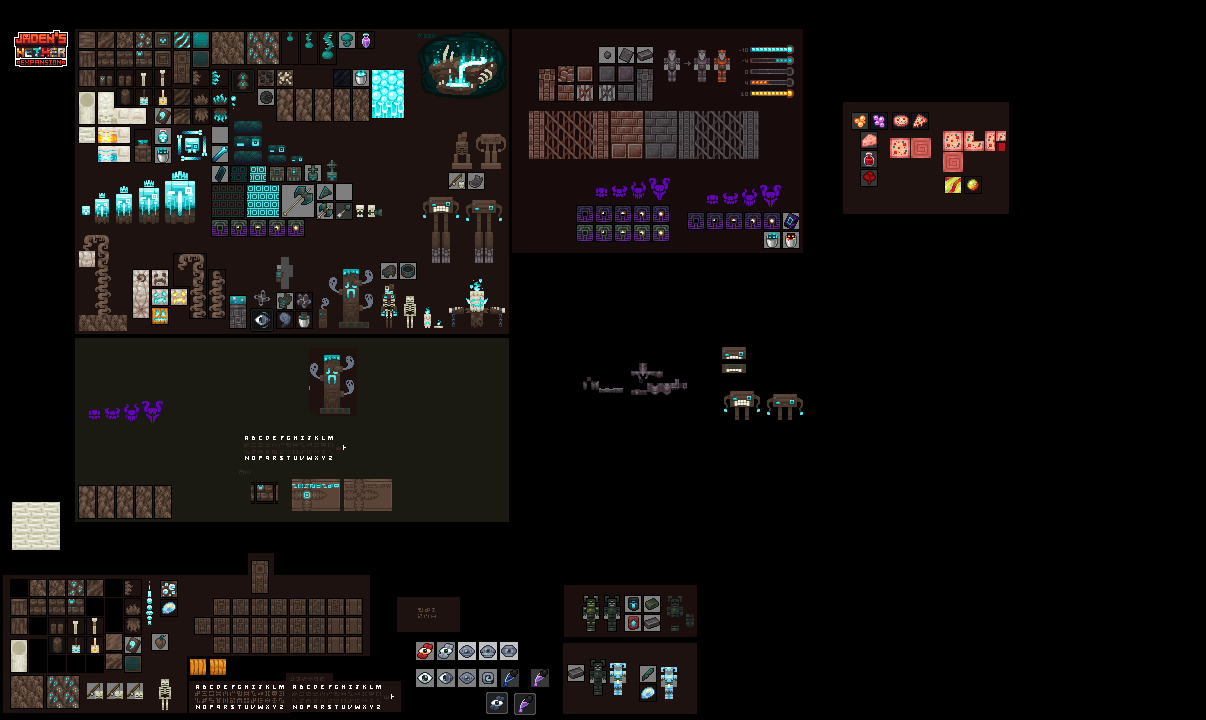
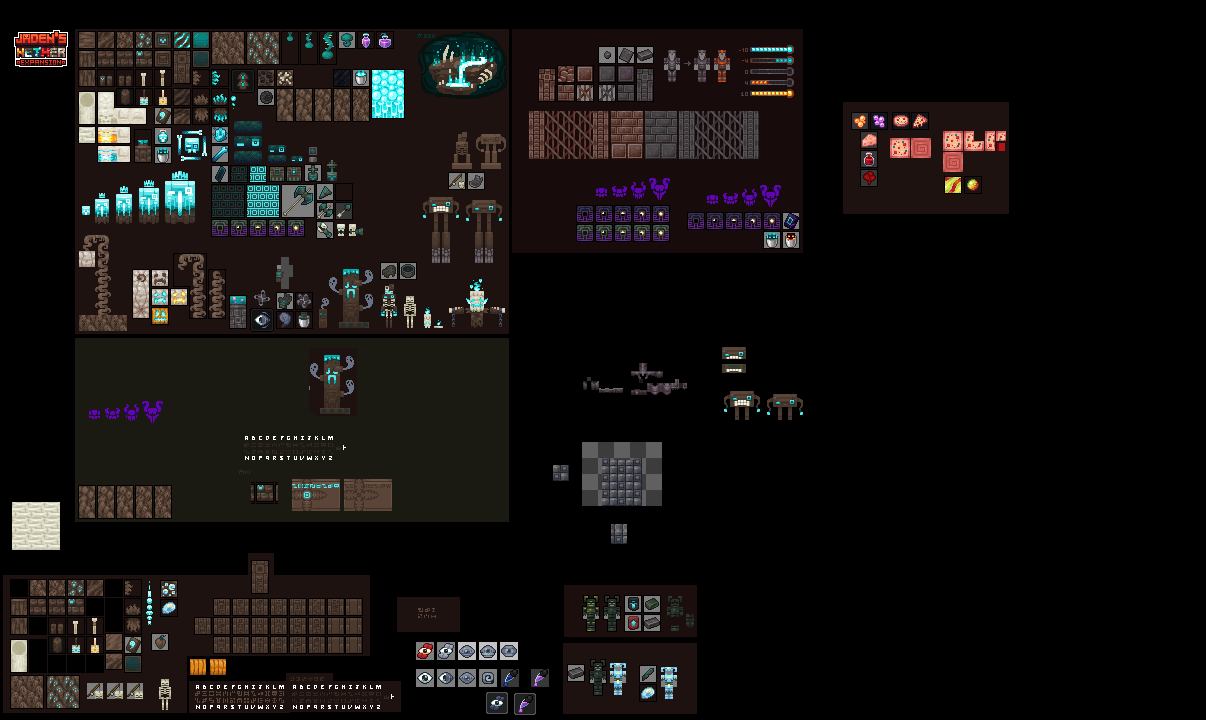
Added Antidotes & Access Wideners
Added
-Antidotes, currently only exists for Swiftness and Awkward for testing purposes
-A System to make adding Future Brewing Recipes Easier
-AccessWideners, currently unused however

Changes
-Mist Charges now stack to 64 like Fire Charges and the soon to come Wind Charges

Removed
-Chainlink Fence Assets, scrapped feature

Frontend
-Nether Expansion Sheets have been updated

diff --git a/src/main/java/net/jadenxgamer/netherexp/registry/item/brewing/ModBrewingRecipeRegistry.java b/src/main/java/net/jadenxgamer/netherexp/registry/item/brewing/ModBrewingRecipeRegistry.java
@@ -1,0 +1,48 @@
+package net.jadenxgamer.netherexp.registry.item.brewing;
+
+import net.jadenxgamer.netherexp.registry.item.ModItems;
+import net.jadenxgamer.netherexp.registry.item.custom.AntidoteItem;
+import net.minecraft.item.Item;
+import net.minecraft.item.ItemStack;
+import net.minecraft.item.Items;
+import net.minecraft.potion.Potions;
+import org.apache.commons.lang3.tuple.Triple;
+
+import java.util.ArrayList;
+import java.util.List;
+
+public class ModBrewingRecipeRegistry {
+    private static final List<Triple<BrewingIngredient, BrewingIngredient, ItemStack>> ANTIDOTE_RECIPES = new ArrayList<>();
+
+    static {
+        ANTIDOTE_RECIPES.add(convert(new BrewingIngredientPotion(Potions.WATER), (new BrewingIngredientItem(ModItems.WARPED_WART)), ModItems.AWKWARD_ANTIDOTE));
+        ANTIDOTE_RECIPES.add(convert(new BrewingIngredientItem(((AntidoteItem)ModItems.AWKWARD_ANTIDOTE)), (new BrewingIngredientItem(Items.HONEYCOMB)), ModItems.INACTIVE_SWIFTNESS_ANTIDOTE));
+        ANTIDOTE_RECIPES.add(convert(new BrewingIngredientItem(ModItems.INACTIVE_SWIFTNESS_ANTIDOTE), (new BrewingIngredientPotion(Potions.SWIFTNESS)), ModItems.SWIFTNESS_ANTIDOTE));
+        ANTIDOTE_RECIPES.add(convert(new BrewingIngredientItem(ModItems.INACTIVE_SWIFTNESS_ANTIDOTE), (new BrewingIngredientPotion(Potions.LONG_SWIFTNESS)), ModItems.SWIFTNESS_ANTIDOTE));
+        ANTIDOTE_RECIPES.add(convert(new BrewingIngredientItem(ModItems.INACTIVE_SWIFTNESS_ANTIDOTE), (new BrewingIngredientPotion(Potions.STRONG_SWIFTNESS)), ModItems.SWIFTNESS_ANTIDOTE));
+        ANTIDOTE_RECIPES.add(convert(new BrewingIngredientItem(ModItems.LIGHTSPORES), (new BrewingIngredientItem(ModItems.WARPED_WART)), ModItems.NIGHTSPORES));
+    }
+
+    public static List<Triple<BrewingIngredient, BrewingIngredient, ItemStack>> getRecipes() {
+        return ANTIDOTE_RECIPES;
+    }
+
+    private static Triple<BrewingIngredient, BrewingIngredient, ItemStack> convert(BrewingIngredient input, BrewingIngredient ingredient, Item output) {
+        return new Triple<>() {
+            @Override
+            public BrewingIngredient getLeft() {
+                return input;
+            }
+
+            @Override
+            public BrewingIngredient getMiddle() {
+                return ingredient;
+            }
+
+            @Override
+            public ItemStack getRight() {
+                return output.getDefaultStack();
+            }
+        };
+    }
+}

diff --git a/src/main/java/net/jadenxgamer/netherexp/mixin/brewing/BrewingRecipeRegistryMixin.java b/src/main/java/net/jadenxgamer/netherexp/mixin/brewing/BrewingRecipeRegistryMixin.java
@@ -1,10 +1,51 @@
-package net.jadenxgamer.netherexp.mixin.item;
+package net.jadenxgamer.netherexp.mixin.brewing;
 
+import net.jadenxgamer.netherexp.registry.item.brewing.BrewingRecipeHelper;
+import net.minecraft.item.ItemStack;
 import net.minecraft.recipe.BrewingRecipeRegistry;
 import org.spongepowered.asm.mixin.Mixin;
+import org.spongepowered.asm.mixin.injection.At;
+import org.spongepowered.asm.mixin.injection.Inject;
+import org.spongepowered.asm.mixin.injection.callback.CallbackInfoReturnable;
 
 @Mixin(BrewingRecipeRegistry.class)
 public abstract class BrewingRecipeRegistryMixin {
+
+    @Inject(
+            method = "isValidIngredient",
+            at = @At(value = "HEAD"),
+            cancellable = true
+    )
+    private static void netherexp$isValidIngredient(ItemStack stack, CallbackInfoReturnable<Boolean> cir) {
+        if (BrewingRecipeHelper.isValidIngredientSlot(stack)) {
+            cir.setReturnValue(true);
+        }
+    }
+
+    @Inject(
+            method = "hasRecipe",
+            at = @At(value = "HEAD"),
+            cancellable = true
+    )
+    private static void netherexp$hasRecipe(ItemStack input, ItemStack ingredient, CallbackInfoReturnable<Boolean> cir) {
+        if (BrewingRecipeHelper.hasRecipe(input, ingredient)) {
+            cir.setReturnValue(true);
+        }
+    }
+
+    @Inject(
+            method = "craft",
+            at = @At(value = "RETURN"),
+            cancellable = true
+    )
+    private static void netherexp$craft(ItemStack ingredient, ItemStack input, CallbackInfoReturnable<ItemStack> cir) {
+        if (!cir.getReturnValue().isEmpty()) {
+            final ItemStack result = BrewingRecipeHelper.recipeResultOf(input, ingredient);
+            if (!result.isEmpty()) {
+                cir.setReturnValue(result);
+            }
+        }
+    }
 
     /*
      * Now you might be wondering "Why are you removing a recipe and registering it again in ModPotions"
@@ -19,7 +60,6 @@ public abstract class BrewingRecipeRegistryMixin {
     */
 
     //TODO: Uncomment this brewing recipe code whenever Warphopper properly gets added
-
     /*
     @ModifyArg(
             method = "registerDefaults",

diff --git a/src/main/java/net/jadenxgamer/netherexp/registry/item/custom/AntidoteItem.java b/src/main/java/net/jadenxgamer/netherexp/registry/item/custom/AntidoteItem.java
@@ -1,9 +1,49 @@
 package net.jadenxgamer.netherexp.registry.item.custom;
 
+import net.jadenxgamer.netherexp.registry.item.ModItems;
+import net.minecraft.client.item.TooltipContext;
+import net.minecraft.entity.effect.StatusEffect;
+import net.minecraft.entity.effect.StatusEffectInstance;
 import net.minecraft.item.Item;
+import net.minecraft.item.ItemStack;
+import net.minecraft.potion.PotionUtil;
+import net.minecraft.text.Text;
+import net.minecraft.util.Formatting;
+import net.minecraft.world.World;
+import org.jetbrains.annotations.Nullable;
+
+import java.util.ArrayList;
+import java.util.List;
 
 public class AntidoteItem extends Item {
-    public AntidoteItem(Settings settings) {
+    boolean inactive;
+    StatusEffectInstance statusEffect;
+
+    public AntidoteItem(Settings settings, StatusEffectInstance statusEffect, boolean inactive) {
         super(settings);
+        this.statusEffect = statusEffect;
+        this.inactive = inactive;
+    }
+
+    public int getColor() {
+        return 3402751;
+    }
+
+    @Override
+    public void appendTooltip(ItemStack stack, @Nullable World world, List<Text> tooltip, TooltipContext context) {
+        if (this.inactive) {
+            tooltip.add(Text.translatable("effect.none").formatted(Formatting.GRAY));
+            tooltip.add((Text.empty()));
+            tooltip.add(Text.translatable("item.netherexp.antidote.inactive_tooltip").formatted(Formatting.DARK_PURPLE));
+            tooltip.add(Text.translatable(this.statusEffect.getTranslationKey()).formatted(Formatting.BLUE));
+        }
+        else if (!stack.isOf(ModItems.AWKWARD_ANTIDOTE)) {
+            List<StatusEffectInstance> list = new ArrayList<>();
+            list.add(this.statusEffect);
+            PotionUtil.buildTooltip(list, tooltip, 1.0F);
+        }
+        else {
+            tooltip.add(Text.translatable("effect.none").formatted(Formatting.GRAY));
+        }
     }
 }

diff --git a/src/main/java/net/jadenxgamer/netherexp/registry/item/ModItems.java b/src/main/java/net/jadenxgamer/netherexp/registry/item/ModItems.java
@@ -8,6 +8,8 @@ import net.jadenxgamer.netherexp.registry.item.custom.*;
 import net.jadenxgamer.netherexp.registry.misc_registry.ModArmorTrimPatterns;
 import net.jadenxgamer.netherexp.registry.sound.ModSoundEvents;
 import net.minecraft.entity.EntityType;
+import net.minecraft.entity.effect.StatusEffectInstance;
+import net.minecraft.entity.effect.StatusEffects;
 import net.minecraft.fluid.Fluids;
 import net.minecraft.item.*;
 import net.minecraft.registry.Registries;
@@ -58,14 +60,14 @@ public class ModItems {
     public static final Item BLIGHTSPORES = registerItem("blightspores",
             new Item(new FabricItemSettings()));
 
-    public static final Item WITHER_ANTIDOTE = registerItem("wither_antidote",
-            new AntidoteItem(new FabricItemSettings()));
+    public static final Item AWKWARD_ANTIDOTE = registerItem("awkward_antidote",
+            new AntidoteItem(new FabricItemSettings(), null, false));
 
-    public static final Item HUNGER_ANTIDOTE = registerItem("hunger_antidote",
-            new AntidoteItem(new FabricItemSettings()));
+    public static final Item INACTIVE_SWIFTNESS_ANTIDOTE = registerItem("inactive_swiftness_antidote",
+            new AntidoteItem(new FabricItemSettings(), new StatusEffectInstance(StatusEffects.SPEED, 3600), true));
 
-    public static final Item SLOWNESS_ANTIDOTE = registerItem("slowness_antidote",
-            new AntidoteItem(new FabricItemSettings()));
+    public static final Item SWIFTNESS_ANTIDOTE = registerItem("swiftness_antidote",
+            new AntidoteItem(new FabricItemSettings(), new StatusEffectInstance(StatusEffects.SPEED, 3600),false));
 
     public static final Item GLOWCHEESE = registerItem("glowcheese",
             new Item(new FabricItemSettings().food(ModFoodComponents.GLOWCHEESE)));

diff --git a/src/main/java/net/jadenxgamer/netherexp/NetherExpClient.java b/src/main/java/net/jadenxgamer/netherexp/NetherExpClient.java
@@ -5,11 +5,13 @@ import net.fabricmc.fabric.api.blockrenderlayer.v1.BlockRenderLayerMap;
 import net.fabricmc.fabric.api.client.particle.v1.ParticleFactoryRegistry;
 import net.fabricmc.fabric.api.client.render.fluid.v1.FluidRenderHandlerRegistry;
 import net.fabricmc.fabric.api.client.render.fluid.v1.SimpleFluidRenderHandler;
+import net.fabricmc.fabric.api.client.rendering.v1.ColorProviderRegistry;
 import net.fabricmc.fabric.api.client.rendering.v1.EntityRendererRegistry;
 import net.jadenxgamer.netherexp.registry.block.ModBlocks;
 import net.jadenxgamer.netherexp.registry.entity.ModEntities;
 import net.jadenxgamer.netherexp.registry.entity.client.*;
 import net.jadenxgamer.netherexp.registry.fluid.ModFluids;
+import net.jadenxgamer.netherexp.registry.item.ModItems;
 import net.jadenxgamer.netherexp.registry.particle.ModParticles;
 import net.jadenxgamer.netherexp.registry.particle.custom.*;
 import net.minecraft.client.particle.ExplosionLargeParticle;
@@ -98,6 +100,11 @@ public class NetherExpClient implements ClientModInitializer {
 
         BlockRenderLayerMap.INSTANCE.putFluids(RenderLayer.getTranslucent(),
                 ModFluids.ECTOPLASM, ModFluids.FLOWING_ECTOPLASM);
+
+        // COLOR PROVIDERS
+        ColorProviderRegistry.ITEM.register((stack, tintindex) -> tintindex > 0 ? -1 : 3694022, ModItems.AWKWARD_ANTIDOTE);
+        ColorProviderRegistry.ITEM.register((stack, tintindex) -> tintindex > 0 ? -1 : 7124156, ModItems.INACTIVE_SWIFTNESS_ANTIDOTE);
+        ColorProviderRegistry.ITEM.register((stack, tintindex) -> tintindex > 0 ? -1 : 3402751, ModItems.SWIFTNESS_ANTIDOTE);
 
         // PARTICLES
         ParticleFactoryRegistry.getInstance().register(ModParticles.ENIGMA_PARTICLE, EnigmaSporeParticle.Factory::new);

diff --git a/src/main/java/net/jadenxgamer/netherexp/registry/item/brewing/ModPotions.java b/src/main/java/net/jadenxgamer/netherexp/registry/item/brewing/ModPotions.java
@@ -1,7 +1,7 @@
-package net.jadenxgamer.netherexp.registry.item.potion;
+package net.jadenxgamer.netherexp.registry.item.brewing;
 
 import net.jadenxgamer.netherexp.NetherExp;
-import net.jadenxgamer.netherexp.mixin.item.BrewingRecipeRegistryAccessor;
+import net.jadenxgamer.netherexp.mixin.brewing.BrewingRecipeRegistryAccessor;
 import net.jadenxgamer.netherexp.registry.effect.ModStatusEffects;
 import net.jadenxgamer.netherexp.registry.item.ModItems;
 import net.minecraft.entity.effect.StatusEffectInstance;
@@ -26,18 +26,13 @@ public class ModPotions{
 
     private static void registerPotionRecipe() {
         BrewingRecipeRegistryAccessor.netherexp$invokeRegisterPotionRecipe(Potions.AWKWARD, ModItems.FOGGY_ESSENCE, FOGSIGHT_POTION);
+        BrewingRecipeRegistryAccessor.netherexp$invokeRegisterPotionRecipe(Potions.AWKWARD, ModItems.FOGGY_ESSENCE, FOGSIGHT_POTION);
         BrewingRecipeRegistryAccessor.netherexp$invokeRegisterPotionRecipe(FOGSIGHT_POTION, Items.REDSTONE, LONG_FOGSIGHT_POTION);
         BrewingRecipeRegistryAccessor.netherexp$invokeRegisterPotionRecipe(Potions.AWKWARD, ModItems.WARPHOPPER_FUR, Potions.INVISIBILITY);
-    }
-
-    public static void registerItemRecipe() {
-        ModBrewingRecipeRegistry.registerAntidoteRecipe(ModItems.LIGHTSPORES, ModItems.NIGHTSPORES, ModItems.GLOWCHEESE);
-        ModBrewingRecipeRegistry.registerAntidoteRecipe(ModItems.HUNGER_ANTIDOTE, ModItems.WARPED_WART, ModItems.SLOWNESS_ANTIDOTE);
     }
 
     public static void registerModPotions() {
         NetherExp.LOGGER.debug("Registering Potions for " + NetherExp.MOD_ID);
         registerPotionRecipe();
-        registerItemRecipe();
     }
 }

diff --git a/src/main/java/net/jadenxgamer/netherexp/registry/item/brewing/BrewingRecipeHelper.java b/src/main/java/net/jadenxgamer/netherexp/registry/item/brewing/BrewingRecipeHelper.java
@@ -1,0 +1,38 @@
+package net.jadenxgamer.netherexp.registry.item.brewing;
+
+import net.minecraft.item.ItemStack;
+import org.apache.commons.lang3.tuple.Triple;
+
+import java.util.List;
+
+public class BrewingRecipeHelper {
+    public static boolean isValidIngredientSlot(ItemStack stack) {
+        List<Triple<BrewingIngredient, BrewingIngredient, ItemStack>> recipes = ModBrewingRecipeRegistry.getRecipes();
+        for (Triple<BrewingIngredient, BrewingIngredient, ItemStack> recipe : recipes) {
+            if (recipe.getMiddle().matches(stack)) {
+                return true;
+            }
+        }
+        return false;
+    }
+
+    public static boolean hasRecipe(ItemStack input, ItemStack ingredient) {
+        List<Triple<BrewingIngredient, BrewingIngredient, ItemStack>> recipes = ModBrewingRecipeRegistry.getRecipes();
+        for (Triple<BrewingIngredient, BrewingIngredient, ItemStack> recipe : recipes) {
+            if (recipe.getLeft().matches(input) && recipe.getMiddle().matches(ingredient)) {
+                return true;
+            }
+        }
+        return false;
+    }
+
+    public static ItemStack recipeResultOf(ItemStack input, ItemStack ingredient) {
+        List<Triple<BrewingIngredient, BrewingIngredient, ItemStack>> recipes = ModBrewingRecipeRegistry.getRecipes();
+        for (Triple<BrewingIngredient, BrewingIngredient, ItemStack> recipe : recipes) {
+            if (recipe.getLeft().matches(input) && recipe.getMiddle().matches(ingredient)) {
+                return recipe.getRight().getItem().getDefaultStack();
+            }
+        }
+        return ItemStack.EMPTY;
+    }
+}

diff --git a/src/main/java/net/jadenxgamer/netherexp/registry/item/brewing/BrewingIngredientPotion.java b/src/main/java/net/jadenxgamer/netherexp/registry/item/brewing/BrewingIngredientPotion.java
@@ -1,0 +1,32 @@
+package net.jadenxgamer.netherexp.registry.item.brewing;
+
+import net.minecraft.item.ItemStack;
+import net.minecraft.item.Items;
+import net.minecraft.potion.Potion;
+import net.minecraft.potion.PotionUtil;
+
+import java.util.ArrayList;
+import java.util.List;
+
+public class BrewingIngredientPotion implements BrewingIngredient {
+    private final Potion potion;
+
+    public BrewingIngredientPotion(Potion potion) {
+        this.potion = potion;
+    }
+
+    @Override
+    public boolean matches(ItemStack stack) {
+        Potion stackPotion = PotionUtil.getPotion(stack);
+        return stackPotion == potion;
+    }
+
+    @Override
+    public List<ItemStack> matchingStacks() {
+        List<ItemStack> list = new ArrayList<>();
+        list.add(PotionUtil.setPotion(Items.POTION.getDefaultStack(), potion));
+        list.add(PotionUtil.setPotion(Items.SPLASH_POTION.getDefaultStack(), potion));
+        list.add(PotionUtil.setPotion(Items.LINGERING_POTION.getDefaultStack(), potion));
+        return list;
+    }
+}

diff --git a/src/main/java/net/jadenxgamer/netherexp/mixin/brewing/BrewingStandBlockEntityMixin.java b/src/main/java/net/jadenxgamer/netherexp/mixin/brewing/BrewingStandBlockEntityMixin.java
@@ -1,0 +1,27 @@
+package net.jadenxgamer.netherexp.mixin.brewing;
+
+import net.jadenxgamer.netherexp.registry.item.brewing.BrewingRecipeHelper;
+import net.jadenxgamer.netherexp.registry.misc_registry.ModTags;
+import net.minecraft.block.entity.BrewingStandBlockEntity;
+import net.minecraft.item.ItemStack;
+import org.spongepowered.asm.mixin.Debug;
+import org.spongepowered.asm.mixin.Mixin;
+import org.spongepowered.asm.mixin.injection.At;
+import org.spongepowered.asm.mixin.injection.Inject;
+import org.spongepowered.asm.mixin.injection.callback.CallbackInfoReturnable;
+
+@Debug(export = true)
+@Mixin(BrewingStandBlockEntity.class)
+public abstract class BrewingStandBlockEntityMixin {
+
+    @Inject(
+            method = "isValid",
+            at = @At(value = "HEAD"),
+            cancellable = true
+    )
+    private void netherexp$isValid(int slot, ItemStack stack, CallbackInfoReturnable<Boolean> cir) {
+        if (slot < 3 && stack.isIn(ModTags.Items.ANTIDOTES)) {
+            cir.setReturnValue(true);
+        }
+    }
+}

diff --git a/src/main/java/net/jadenxgamer/netherexp/registry/item/brewing/BrewingIngredientItem.java b/src/main/java/net/jadenxgamer/netherexp/registry/item/brewing/BrewingIngredientItem.java
@@ -1,0 +1,25 @@
+package net.jadenxgamer.netherexp.registry.item.brewing;
+
+import net.minecraft.item.Item;
+import net.minecraft.item.ItemStack;
+
+import java.util.Collections;
+import java.util.List;
+
+public class BrewingIngredientItem implements BrewingIngredient{
+    private final Item item;
+
+    public BrewingIngredientItem(Item item) {
+        this.item = item;
+    }
+
+    @Override
+    public boolean matches(ItemStack stack) {
+        return stack.isOf(item);
+    }
+
+    @Override
+    public List<ItemStack> matchingStacks() {
+        return Collections.singletonList(item.getDefaultStack());
+    }
+}

diff --git a/src/main/java/net/jadenxgamer/netherexp/NetherExp.java b/src/main/java/net/jadenxgamer/netherexp/NetherExp.java
@@ -17,7 +17,7 @@ import net.jadenxgamer.netherexp.registry.event.WartBeardGrowerEvent;
 import net.jadenxgamer.netherexp.registry.fluid.ModFluids;
 import net.jadenxgamer.netherexp.registry.item.ModItemGroup;
 import net.jadenxgamer.netherexp.registry.item.ModItems;
-import net.jadenxgamer.netherexp.registry.item.potion.ModPotions;
+import net.jadenxgamer.netherexp.registry.item.brewing.ModPotions;
 import net.jadenxgamer.netherexp.registry.misc_registry.*;
 import net.jadenxgamer.netherexp.registry.particle.ModParticles;
 import net.jadenxgamer.netherexp.registry.worldgen.biome.ModBiomes;

diff --git a/src/main/java/net/jadenxgamer/netherexp/registry/misc_registry/ModTags.java b/src/main/java/net/jadenxgamer/netherexp/registry/misc_registry/ModTags.java
@@ -156,6 +156,9 @@ public class ModTags {
         // Items in this tag will lure Wisps towards the player
         public static final TagKey<Item> SOUL_FIRE_THAT_LURES_WISPS = createItemTag("soul_fire_that_lures_wisps");
 
+        // Items in this tag will lure Wisps towards the player
+        public static final TagKey<Item> ANTIDOTES = createItemTag("antidotes");
+
         private static TagKey<Item> createItemTag(String name) {
             return TagKey.of(RegistryKeys.ITEM, new Identifier(NetherExp.MOD_ID, name));
         }
